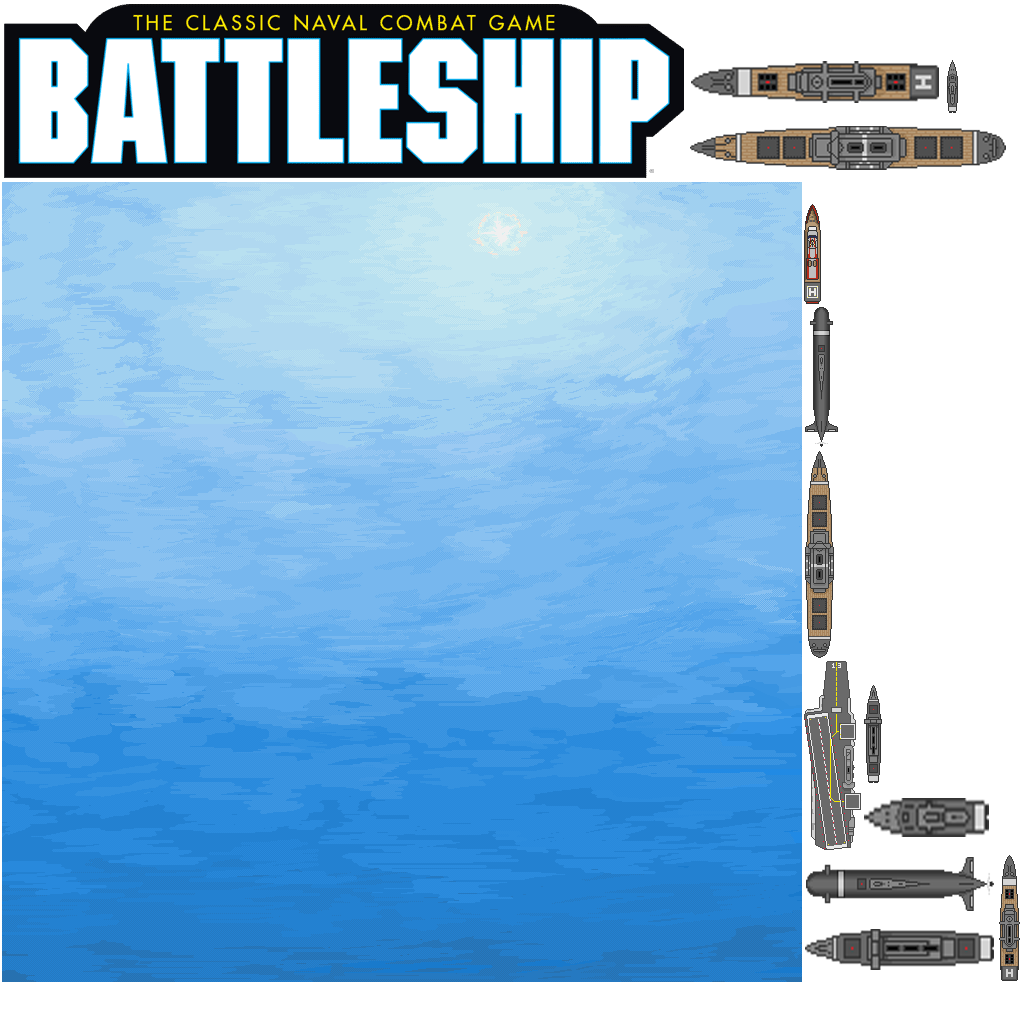
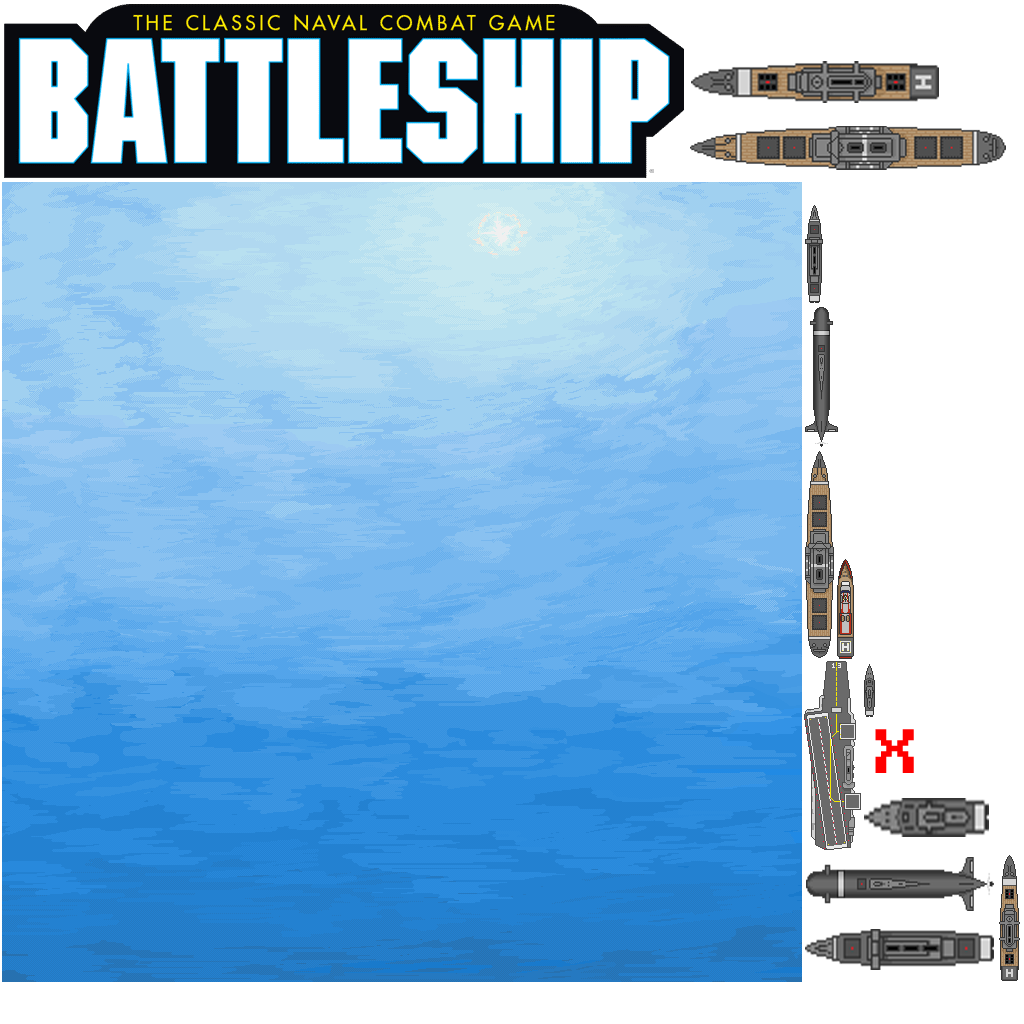
saving-of-boat-placement-implemented

diff --git a/core/src/main/java/si/um/feri/momcilovic/screen/GameScreen.java b/core/src/main/java/si/um/feri/momcilovic/screen/GameScreen.java
@@ -1,206 +1,7 @@
 package si.um.feri.momcilovic.screen;
 
-import com.badlogic.gdx.Gdx;
-import com.badlogic.gdx.Input;
 import com.badlogic.gdx.ScreenAdapter;
-import com.badlogic.gdx.assets.AssetManager;
-import com.badlogic.gdx.graphics.g2d.TextureAtlas;
-import com.badlogic.gdx.scenes.scene2d.Stage;
-import com.badlogic.gdx.scenes.scene2d.ui.Image;
-import com.badlogic.gdx.scenes.scene2d.ui.Label;
-import com.badlogic.gdx.scenes.scene2d.ui.Skin;
-import com.badlogic.gdx.scenes.scene2d.utils.TextureRegionDrawable;
-import com.badlogic.gdx.utils.ScreenUtils;
-import com.badlogic.gdx.utils.viewport.FillViewport;
-import com.badlogic.gdx.utils.viewport.Viewport;
-
-import si.um.feri.momcilovic.GameManager;
-import si.um.feri.momcilovic.MomcilovicBattleshipGame;
-import si.um.feri.momcilovic.assets.AssetDescriptors;
-import si.um.feri.momcilovic.assets.RegionNames;
-import si.um.feri.momcilovic.config.GameConfig;
 
 public class GameScreen extends ScreenAdapter {
 
-    private final MomcilovicBattleshipGame game;
-    private final AssetManager assetManager;
-    private final GameManager gameManager;
-
-    private Viewport viewport;
-    private Stage stage;
-
-    private Skin skin;
-    private TextureAtlas gameplayAtlas;
-
-    private int selectedRow = 0;
-    private int selectedCol = 0;
-    private boolean isHorizontal = true;
-    private int currentPlayer = 1;
-    private String[] players;
-
-    private Image[] boatImages;
-    private String[] boats = {RegionNames.GRID_BATTLESHIP, RegionNames.GRID_CRUISER, RegionNames.GRID_DESTROYER, RegionNames.GRID_SUBMARINE, RegionNames.GRID_PATROL};
-    private int currentBoatIndex = 0;
-
-    private int minRow = 2;
-    private int maxRow = 11;
-
-    private int minCol = 5;
-    private int maxCol = 14;
-
-    private Label playerNameLabel;
-    private Label boatInfoLabel;
-    private Label orientationLabel;
-
-    public GameScreen(MomcilovicBattleshipGame game) {
-        this.game = game;
-        assetManager = game.getAssetManager();
-        gameManager = game.getGameManager();
-
-    }
-
-    @Override
-    public void show() {
-        viewport = new FillViewport(GameConfig.HUD_WIDTH, GameConfig.HUD_HEIGHT);
-        stage = new Stage(viewport, game.getBatch());
-
-        skin = assetManager.get(AssetDescriptors.UI_SKIN);
-        gameplayAtlas = assetManager.get(AssetDescriptors.GAMEPLAY);
-
-        boatImages = new Image[boats.length];
-        for (int i = 0; i < boats.length; i++) {
-            boatImages[i] = new Image(new TextureRegionDrawable(gameplayAtlas.findRegion(boats[i])));
-            boatImages[i].setPosition( 0, -64);
-        }
-        boatImages[0].setPosition(5*64, 11*64);
-
-        players = new String[] {gameManager.getGameResult(gameManager.getGameResults().size()-1).getPlayer(1),
-            gameManager.getGameResult(gameManager.getGameResults().size()-1).getPlayer(2)};
-
-        createUi();
-        Gdx.input.setInputProcessor(stage);
-    }
-
-    @Override
-    public void render(float delta) {
-        ScreenUtils.clear(0f, 0f, 0f, 0f);
-
-        handleInput();
-        updateUi();
-        stage.act(delta);
-        stage.draw();
-    }
-
-    private void changeLimits(){
-        if(isHorizontal){
-            minRow = 2;
-            maxRow = 11;
-            minCol = 5;
-            maxCol = 15 - (int) (boatImages[currentBoatIndex].getWidth()/64);
-        }else {
-            minRow = 2 + (int) (boatImages[currentBoatIndex].getWidth()/64);
-            maxRow = 12;
-            minCol = 5;
-            maxCol = 14;
-        }
-    }
-
-    private void handleInput() {
-        changeLimits();
-        float cellSize = GameConfig.CELL_SIZE;
-
-        if (Gdx.input.isKeyJustPressed(Input.Keys.UP)) {
-            if(boatImages[currentBoatIndex].getY() < maxRow*cellSize){
-                boatImages[currentBoatIndex].setPosition(boatImages[currentBoatIndex].getX(), boatImages[currentBoatIndex].getY() + cellSize);
-            }
-        } else if (Gdx.input.isKeyJustPressed(Input.Keys.DOWN)) {
-            if(boatImages[currentBoatIndex].getY() > minRow*cellSize){
-                boatImages[currentBoatIndex].setPosition(boatImages[currentBoatIndex].getX(), boatImages[currentBoatIndex].getY() - cellSize);
-            }
-        } else if (Gdx.input.isKeyJustPressed(Input.Keys.LEFT)) {
-            if (boatImages[currentBoatIndex].getX() > minCol*cellSize) {
-                boatImages[currentBoatIndex].setPosition(boatImages[currentBoatIndex].getX() - cellSize, boatImages[currentBoatIndex].getY());
-            }
-        } else if (Gdx.input.isKeyJustPressed(Input.Keys.RIGHT)) {
-            if (boatImages[currentBoatIndex].getX() < maxCol * cellSize) {
-                boatImages[currentBoatIndex].setPosition(boatImages[currentBoatIndex].getX() + cellSize, boatImages[currentBoatIndex].getY());
-            }
-        }
-
-        if(Gdx.input.isKeyJustPressed(Input.Keys.R)){
-            if(boatImages[currentBoatIndex].getRotation() == 0){
-                boatImages[currentBoatIndex].rotateBy(-90);
-                if(boatImages[currentBoatIndex].getY() - boatImages[currentBoatIndex].getImageWidth() < minRow*cellSize){
-                    boatImages[currentBoatIndex].setPosition(boatImages[currentBoatIndex].getX(), minRow*cellSize+boatImages[currentBoatIndex].getImageWidth());
-                }else {
-                    boatImages[currentBoatIndex].setPosition(boatImages[currentBoatIndex].getX(), boatImages[currentBoatIndex].getY()+cellSize);
-                }
-            }else {
-                boatImages[currentBoatIndex].rotateBy(90);
-                if(boatImages[currentBoatIndex].getX() + boatImages[currentBoatIndex].getImageWidth() > maxCol*cellSize){
-                    boatImages[currentBoatIndex].setPosition(maxCol*cellSize-boatImages[currentBoatIndex].getImageWidth()+cellSize, boatImages[currentBoatIndex].getY()-cellSize);
-                } else {
-                    boatImages[currentBoatIndex].setPosition(boatImages[currentBoatIndex].getX(), boatImages[currentBoatIndex].getY()-cellSize);
-                }
-            }
-            isHorizontal = !isHorizontal;
-        }
-        if (Gdx.input.isKeyJustPressed(Input.Keys.ENTER)) {
-            placeBoat();
-            isHorizontal = true;
-            changeLimits();
-            boatImages[currentBoatIndex].setPosition(minCol*cellSize, maxRow*cellSize);
-        }
-        if(Gdx.input.isKeyJustPressed(Input.Keys.SPACE)){
-            System.out.println("MinRow: " + minRow + " MaxRow: " + maxRow + " MinCol: " + minCol + " MaxCol: " + maxCol);
-        }
-
-    }
-
-    private void placeBoat() {
-        // Implement boat placement logic here
-        System.out.println(players[currentPlayer - 1] + " placed " + boats[currentBoatIndex] + " at: " + selectedRow + ", " + selectedCol + " " + (isHorizontal ? "Horizontal" : "Vertical"));
-        currentBoatIndex++;
-        if (currentBoatIndex >= boats.length) {
-            currentBoatIndex = 0;
-            currentPlayer = 3 - currentPlayer; // Switch player
-        }
-    }
-
-    private void updateUi() {
-        playerNameLabel.setText(players[currentPlayer - 1]);
-        boatInfoLabel.setText("Boat: " + boats[currentBoatIndex]);
-        orientationLabel.setText("Orientation: " + (isHorizontal ? "Horizontal" : "Vertical"));
-    }
-
-    private void createUi() {
-        // Add background image
-        Image backgroundImage = new Image(gameplayAtlas.findRegion(RegionNames.BACKGROUND));
-        backgroundImage.setFillParent(true);
-        stage.addActor(backgroundImage);
-
-        // Add a specific image at certain coordinates
-        Image specificImage = new Image(gameplayAtlas.findRegion(RegionNames.GRID));
-        specificImage.setPosition(4 * GameConfig.CELL_SIZE, 2 * GameConfig.CELL_SIZE); // Set the desired coordinates
-        stage.addActor(specificImage);
-
-        for(Image boatImage : boatImages){
-            stage.addActor(boatImage);
-        }
-
-        // Create and position player name label
-        playerNameLabel = new Label(players[currentPlayer - 1], skin, "title");
-        playerNameLabel.setPosition(10 * 64, GameConfig.HUD_HEIGHT - 64);
-        stage.addActor(playerNameLabel);
-
-        // Create and position boat info label
-        boatInfoLabel = new Label("Boat:\n" + boats[currentBoatIndex], skin);
-        boatInfoLabel.setPosition(20, GameConfig.HUD_HEIGHT - 80);
-        stage.addActor(boatInfoLabel);
-
-        // Create and position orientation label
-        orientationLabel = new Label("Orientation:\n" + (isHorizontal ? "Horizontal" : "Vertical"), skin);
-        orientationLabel.setPosition(20, GameConfig.HUD_HEIGHT - 120);
-        stage.addActor(orientationLabel);
-    }
 }

diff --git a/core/src/main/java/si/um/feri/momcilovic/screen/PreGameScreen.java b/core/src/main/java/si/um/feri/momcilovic/screen/PreGameScreen.java
@@ -132,7 +132,7 @@ public class PreGameScreen extends ScreenAdapter {
             public void clicked(InputEvent event, float x, float y) {
                 System.out.println("Starting game with players: " + player1Name + " and " + player2Name);
                 game.getGameManager().saveResult(player1Name.getText(), 0, player2Name.getText(), 0,isMultiplayer);
-                game.setScreen(new GameScreen(game));
+                game.setScreen(new GameSetupScreen(game));
             }
         });
         buttonTable.add(startButton).padLeft(10);

diff --git a/core/src/main/java/si/um/feri/momcilovic/assets/RegionNames.java b/core/src/main/java/si/um/feri/momcilovic/assets/RegionNames.java
@@ -19,6 +19,8 @@ public class RegionNames {
     public static final String GRID_DESTROYER = "grid_destroyer";
     public static final String GRID_PATROL = "grid_patrol";
     public static final String GRID_SUBMARINE = "grid_submarine";
+    public static final String GRID_MISS = "grid_miss";
+    public static final String GRID_HIT = "grid_hit";
 
     private RegionNames() {
     }
